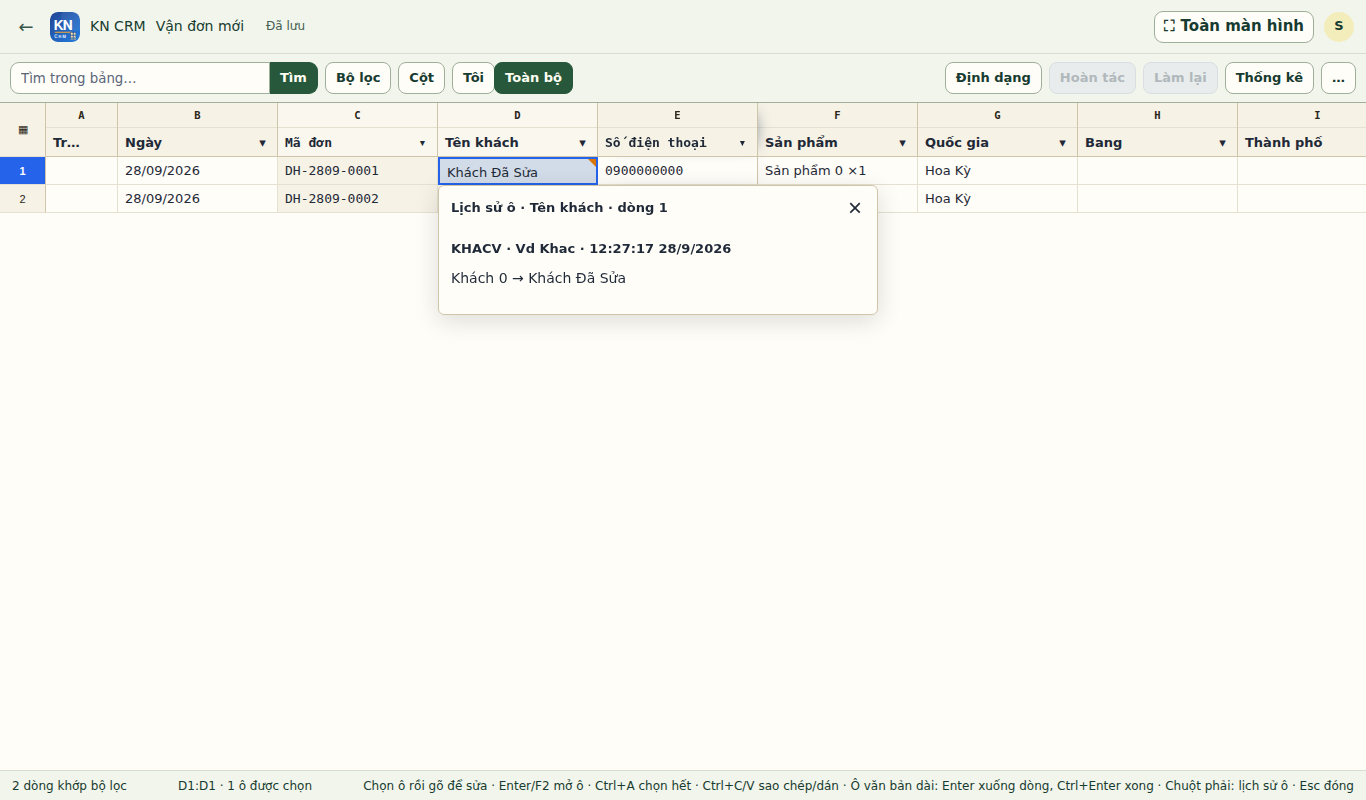
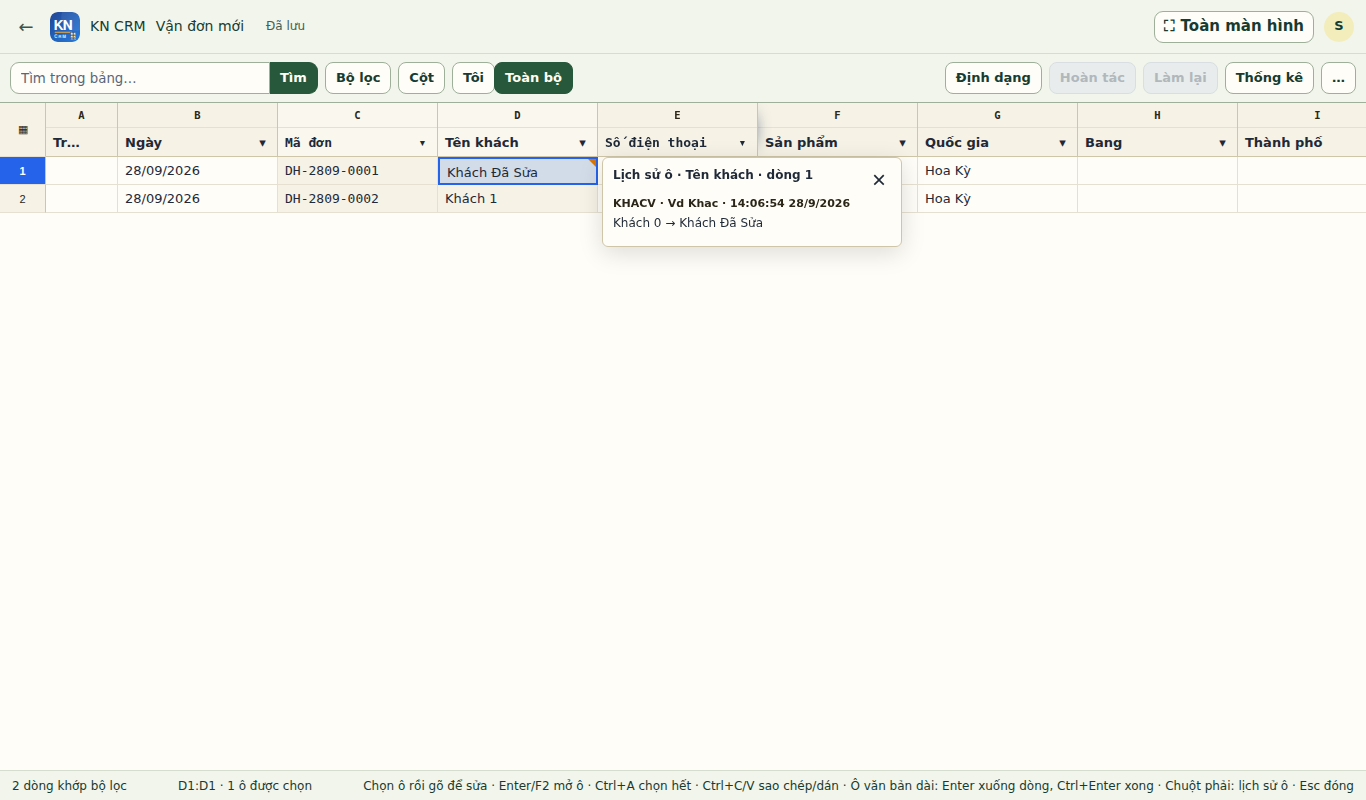
Khung lich su o gon ben phai o, boi den trong luoi mau xanh
- Khung lich su o rong 300 px, dung ben phai o va ngang hang o; het cho
  thi sang trai. Chu nho, it khoang trong.
- Boi den chu trong o dang nhap va khung noi cua luoi mau xanh nhu
  Excel/Google Sheets thay mau vang chon chung cua Solarpunk.

Claude-Session: https://claude.ai/code/session_01MNER7tejJEYK8o1Xgo5rN3

Changed region(s): [[0.3075, 0.1875, 0.6457, 0.375]]

diff --git a/app/static/js/master-grid.js b/app/static/js/master-grid.js
@@ -430,6 +430,14 @@
     panel.style.left=Math.max(12,Math.min(box?.left||12,innerWidth-w-12))+'px';
     panel.style.top=Math.max(12,Math.min(box?.bottom||90,innerHeight-h-12))+'px';
   }
+  // Khung lịch sử ô nằm bên phải ô, ngang hàng ô; hết chỗ bên phải thì sang bên trái.
+  function floatBeside(panel, box) {
+    panel.hidden=false;const w=Math.min(300,innerWidth-24),h=Math.min(320,innerHeight-24);
+    panel.style.width=w+'px';panel.style.maxHeight=h+'px';
+    const left=box.right+4+w+12<=innerWidth?box.right+4:box.left-4-w;
+    panel.style.left=Math.max(12,Math.min(left,innerWidth-w-12))+'px';
+    panel.style.top=Math.max(12,Math.min(box.top,innerHeight-panel.offsetHeight-12))+'px';
+  }
   function showReader(cell) {
     if(!cell||state.draft||drag||(cell.scrollWidth<=cell.clientWidth&&cell.scrollHeight<=cell.clientHeight))return;
     const row=rowAt(+cell.dataset.r),c=state.visible[+cell.dataset.c];if(!row)return;
@@ -1061,7 +1069,7 @@
     choose(r,ci);reader.hidden=true;
     const serial=++cellHistorySerial,list=cellHistory.querySelector('.mg-cell-history-list');let before=null;
     cellHistory.querySelector('strong').textContent=`Lịch sử ô · ${c.name} · dòng ${r+1}`;
-    list.replaceChildren(element('p','','Đang tải…'));floatAt(cellHistory,cell.getBoundingClientRect());
+    const box=cell.getBoundingClientRect();list.replaceChildren(element('p','','Đang tải…'));floatBeside(cellHistory,box);
     const load=async()=>{
       const p=new URLSearchParams({record:row.id,column:c.code});if(before)p.set('before',before);
       const data=await fetch(config.historyUrl+'?'+p).then(json);if(serial!==cellHistorySerial)return;
@@ -1075,6 +1083,7 @@
       if(before){const more=element('button','nut mg-cell-history-more','Cũ hơn');more.type='button';more.onclick=()=>safe(load)();list.append(more);}
     };
     try{await load();}catch(e){if(serial===cellHistorySerial)list.replaceChildren(element('p','',e.message||'Không tải được lịch sử ô.'));}
+    if(serial===cellHistorySerial&&!cellHistory.hidden)floatBeside(cellHistory,box);
   }
   viewport.addEventListener('contextmenu',e=>{
     const cell=e.target.closest('.mg-cell[data-r]')||(e.target===viewport?canvas.querySelector('.mg-cell.mg-current'):null);

diff --git a/app/static/css/master-grid.css b/app/static/css/master-grid.css
@@ -184,3 +184,10 @@
 .mg-cell.mg-moi-sua::after{content:'';position:absolute;top:0;right:0;width:0;height:0;border-style:solid;border-width:0 8px 8px 0;border-color:transparent #d97706 transparent transparent;pointer-events:none}
 .mg-cell-history>.mg-close{position:absolute;top:6px;right:6px}.mg-cell-history .mg-cell-history-list{display:grid}.mg-cell-history .mg-history-item pre{margin:6px 0 0}.mg-cell-history .mg-history-item:last-of-type{border-bottom:0}.mg-cell-history-more{justify-self:start;margin-top:8px}
 
+/* Lịch sử ô gọn như ghi chú của Google Sheets: hẹp, chữ nhỏ, đứng bên phải ô. */
+.mg-cell-history{padding:8px 10px;font-size:12px}.mg-cell-history>strong{font-size:12px;margin-bottom:4px}
+.mg-cell-history .mg-history-item{padding:6px 0}.mg-cell-history .mg-history-item>strong{font-size:11px;margin:0;color:var(--ink-2);padding-right:0}
+.mg-cell-history .mg-history-item pre{margin:2px 0 0;max-height:96px}
+/* Bôi đen chữ trong lưới xanh như Excel/Google Sheets, không theo màu chọn vàng của giao diện chung. */
+.mg-root ::selection,.mg-float ::selection{background:#b4d5fe;color:#111}
+:root[data-theme="dark"] .mg-root ::selection,:root[data-theme="dark"] .mg-float ::selection{background:#264f78;color:#fff}

diff --git a/app/tests/e2e/test_lich_su_o_tren_luoi.py b/app/tests/e2e/test_lich_su_o_tren_luoi.py
@@ -54,8 +54,10 @@ def test_chuot_phai_o_xem_lich_su_va_dau_o_vua_sua(live_server, trang, dang_nhap
     assert "Tên khách" in khung
     vi_tri = trang.evaluate(f"""() => {{ const o = document.querySelector("{o}").getBoundingClientRect();
         const k = document.getElementById('mg-cell-history').getBoundingClientRect();
-        return {{gan: Math.abs(k.top - o.bottom) < 40 || Math.abs(k.bottom - o.top) < 40}}; }}""")
-    assert vi_tri["gan"], "khung lịch sử phải nằm ngay cạnh ô"
+        return {{phai: k.left >= o.right - 1 && k.left - o.right < 16, ngang_hang: Math.abs(k.top - o.top) < 8,
+                 rong: k.width}}; }}""")
+    assert vi_tri["phai"] and vi_tri["ngang_hang"], f"khung lịch sử phải nằm bên phải ô, ngang hàng ô: {vi_tri}"
+    assert vi_tri["rong"] <= 320, f"khung lịch sử phải gọn, rộng tối đa 320 px: {vi_tri}"
     chup(trang, "lich-su-o-tren-luoi")
     trang.keyboard.press("Escape")
     trang.wait_for_function("() => document.getElementById('mg-cell-history').hidden", timeout=3_000)
@@ -90,3 +92,20 @@ def test_chuot_phai_len_hop_doc_van_mo_lich_su_o(live_server, trang, dang_nhap, 
     trang.wait_for_function("() => document.querySelector('#mg-cell-history .mg-history-item')", timeout=5_000)
     assert "Ghi chú" in trang.text_content("#mg-cell-history strong")
     assert trang.evaluate("() => document.getElementById('mg-reader').hidden"), "hộp đọc phải nhường chỗ cho lịch sử"
+
+
+def test_boi_den_trong_luoi_mau_xanh_nhu_excel(live_server, trang, dang_nhap, kn_crm, feedback, nguoi_dung):  # noqa: F811
+    """AC-21.13 — Bôi đen chữ trong ô đang nhập của lưới là nền xanh nhạt như Excel/Google Sheets,
+    không phải màu vàng ô liu của giao diện chung (chủ dự án 28.09)"""
+    bang, _, dong = feedback
+    dang_nhap(trang, nguoi_dung["staff_vd"])
+    trang.goto(f"{live_server.url}/bang-tinh/{bang.code}/")
+    o = f".mg-cell[data-code='ten_khach'][data-id='{dong[0].pk}']"
+    trang.wait_for_selector(o)
+    trang.click(o)
+    trang.keyboard.press("F2")
+    trang.wait_for_selector("#mg-editor:not([hidden]) #mg-input :is(input,textarea)")
+    mau = trang.evaluate("""() => getComputedStyle(document.querySelector('#mg-input :is(input,textarea)'),
+        '::selection').backgroundColor""")
+    assert mau == "rgb(180, 213, 254)", mau
+    chup(trang, "boi-den-xanh")

diff --git a/docs/kiem-chung-toi-va-lich-su-o-20260928.md b/docs/kiem-chung-toi-va-lich-su-o-20260928.md
@@ -41,10 +41,12 @@ quyền: Marketing vẫn không xem bảng vận đơn. Excel và Thống kê đ
 | `crm/tests/test_lich_su_o.py` (AC-21.13) | **đỏ**: khối không có `recent` | xanh: người khác sửa → dấu 2 ô; chính mình → không; sửa 25 giờ trước → không; lịch sử theo ô đúng cột, có mã người sửa; người ngoài phạm vi 403 và không thấy dòng |
 | `tests/e2e/test_lich_su_o_tren_luoi.py` (AC-21.13, Chromium) | **đỏ**: ô không có dấu góc | xanh: dấu góc đúng ô, chuột phải mở khung cạnh ô với "Khách 0 → Khách Đã Sửa" và mã người sửa, Esc đóng |
 | `tests/e2e/test_lich_su_o_tren_luoi.py::test_chuot_phai_len_hop_doc_van_mo_lich_su_o` (AC-21.13, bổ sung sau khi chủ dự án thử local: bấm ô Ghi chú dài → hộp đọc hiện → chuột phải lên hộp ra menu Chrome) | **đỏ**: sự kiện chuột phải không bị chặn | xanh: chuột phải lên hộp đọc mở lịch sử ô Ghi chú, hộp đọc đóng |
+| `…::test_chuot_phai_o_xem_lich_su_va_dau_o_vua_sua` sửa theo góp ý thứ hai (khung gọn, bên phải ô) | **đỏ**: khung rộng 440 px, nằm dưới ô | xanh: khung rộng 300 px, mép trái sát mép phải ô, ngang hàng ô; hết chỗ bên phải thì sang trái |
+| `…::test_boi_den_trong_luoi_mau_xanh_nhu_excel` (bôi đen chữ trong ô đang nhập) | **đỏ**: `rgb(243, 237, 187)` màu vàng chọn của Solarpunk | xanh: `#b4d5fe` như Excel/Sheets; giao diện tối `#264f78`; chỉ áp trong lưới và khung nổi, trang ERP giữ màu chung |
 | `tests/test_truy_vet.py` + `core/tests/test_giao_dien.py` (docs/06 → 278 / 265 / 242) | — | 659 đạt |
 | Suite đầy đủ `-m "not trinh_duyet and not cham"` | — | **2.802 đạt, 1 bỏ qua, 0 đỏ** (361 s) |
 
-Ảnh: `docs/kiem-thu/toi-va-lich-su-o-2026-09-28/lich-su-o-tren-luoi.png`.
+Ảnh: `docs/kiem-thu/toi-va-lich-su-o-2026-09-28/lich-su-o-tren-luoi.png`, `boi-den-xanh.png`.
 
 ## Chưa kiểm
 
